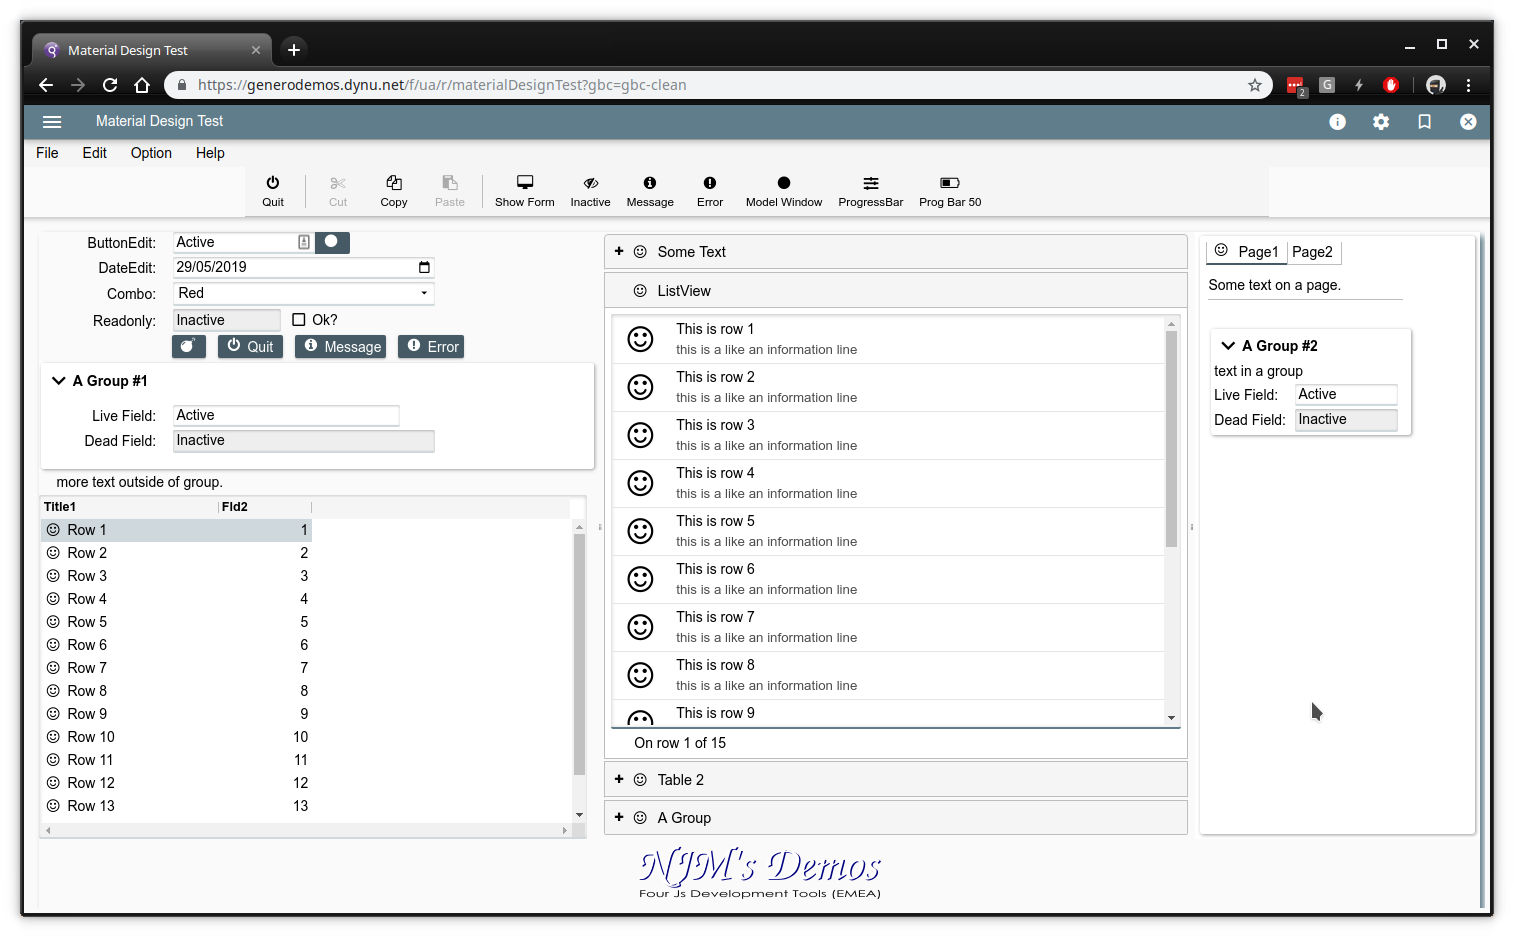
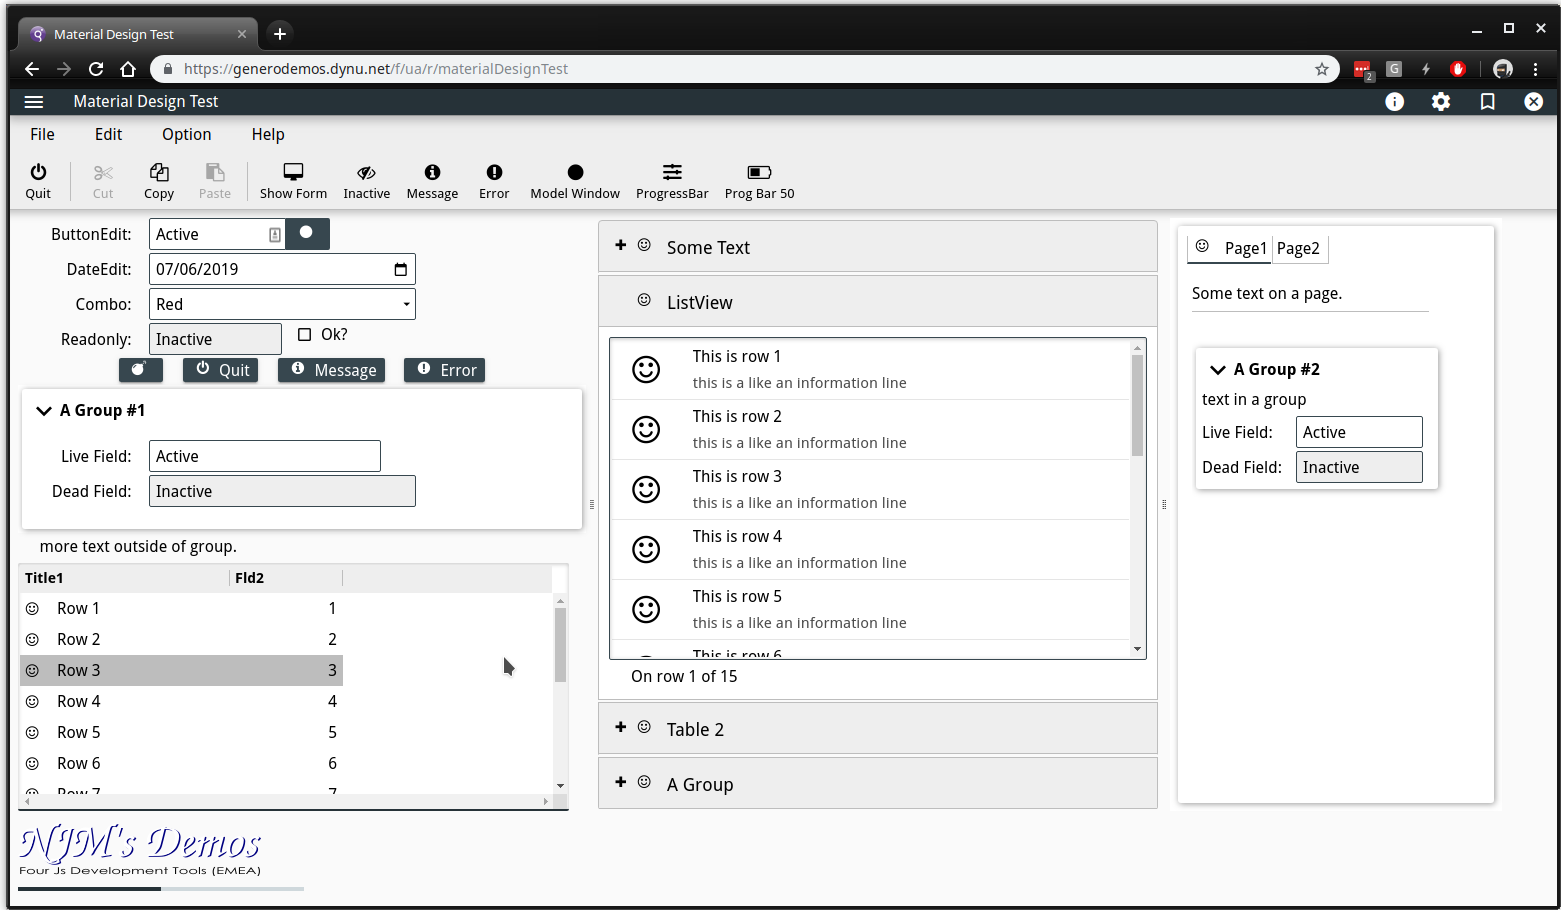
tidied

Changed region(s): [[0.0, 0.0, 1.0, 1.0], [0.1863, 0.8308, 0.2173, 0.8923]]

diff --git a/gbc-clean/sass/main.scss b/gbc-clean/sass/main.scss
@@ -1,10 +1,6 @@
 
 BODY {
-	font-family: 'Source Sans Pro', sans-serif;
-	font-size: 14px;
-	font-weight: 400;
 	-webkit-font-smoothing: antialiased;
-	margin: 0px 0px 0px 0px;
 }
 
 // get rid of ugly empty folder nav butons
@@ -25,30 +21,7 @@ BODY {
 	display: none !important;
 }
 
-// allow a window to center in the browser
-.gbc_style_center {
-	width: fit-content;
-	margin-left: auto;
-	margin-right: auto;
-	display: block;
-	background-position: center !important;
-}
-
-// add a border to the form
-.gbc_style_formborder {
-	margin: 10px;
-	box-shadow: 4px 4px 6px $theme-primary-emphasis-background-color;
-	border-radius: 2.4px;
-}
-
-// get the toolbar to center in the browser tab with a min width
-.gbc_WindowWidget .gbc_WindowToolbarContainer {
-	margin-left: auto;
-	margin-right: auto;
-	min-width: 1024px;
-}
-
-// set a min width for forms to line up with the toolbar
-.gbc_WindowWidget_position_center .gbc_FormWidget.notOverflownX > .containerElement > *, .gbc_WindowWidget_position_center2 .gbc_FormWidget.notOverflownX > .containerElement > * {
-	min-width: 1024px;
+// remove the box shadows from fields.
+.mt-field {
+	box-shadow: none;	
 }
